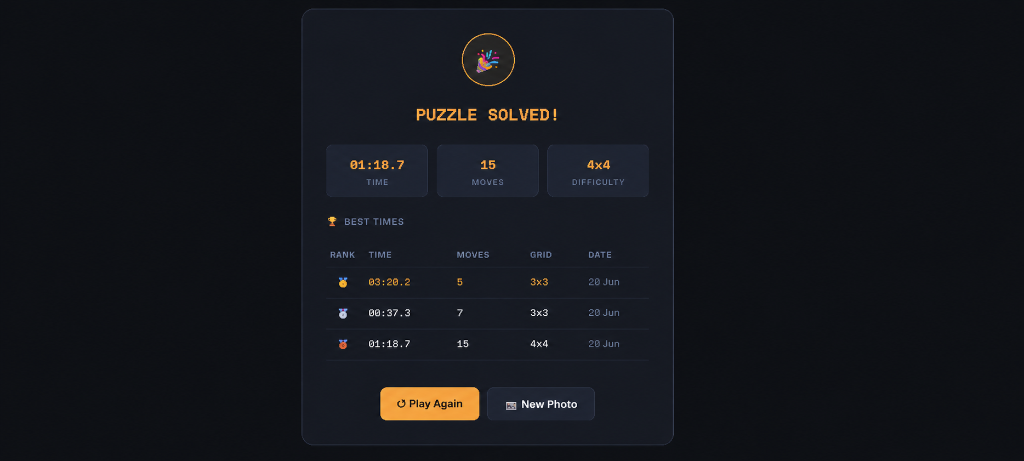
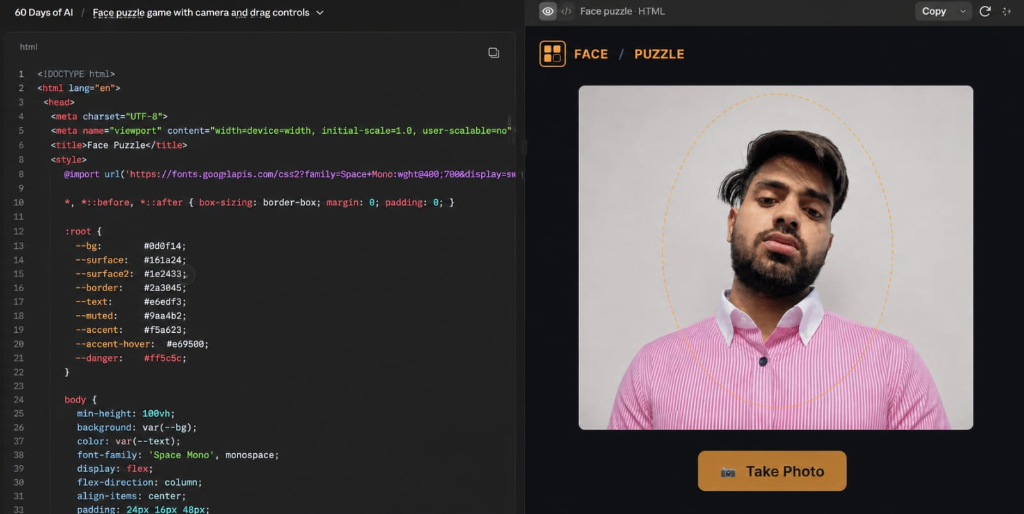
docs(day20): update screenshots and markdown references

diff --git a/day20/day20.md b/day20/day20.md
@@ -5,6 +5,7 @@
 On Day 20, I built **Face Puzzle**, an interactive web-based puzzle game that uses the camera to capture a user's face, dynamically breaks it into puzzle pieces, scrambles them, and challenges the user to assemble them back. It features full touch and drag-and-drop gameplay, performance timers, move counters, and a persistence-based local leaderboard.
 
 ![Face Puzzle Interface](screenshot.png)
+![Puzzle Solved & Leaderboard](solved.png)
 
 ---
 
@@ -55,6 +56,7 @@ On Day 20, I built **Face Puzzle**, an interactive web-based puzzle game that us
 day20/
 ├── face_puzzle.html
 ├── screenshot.png
+├── solved.png
 └── day20.md
 ```
 
